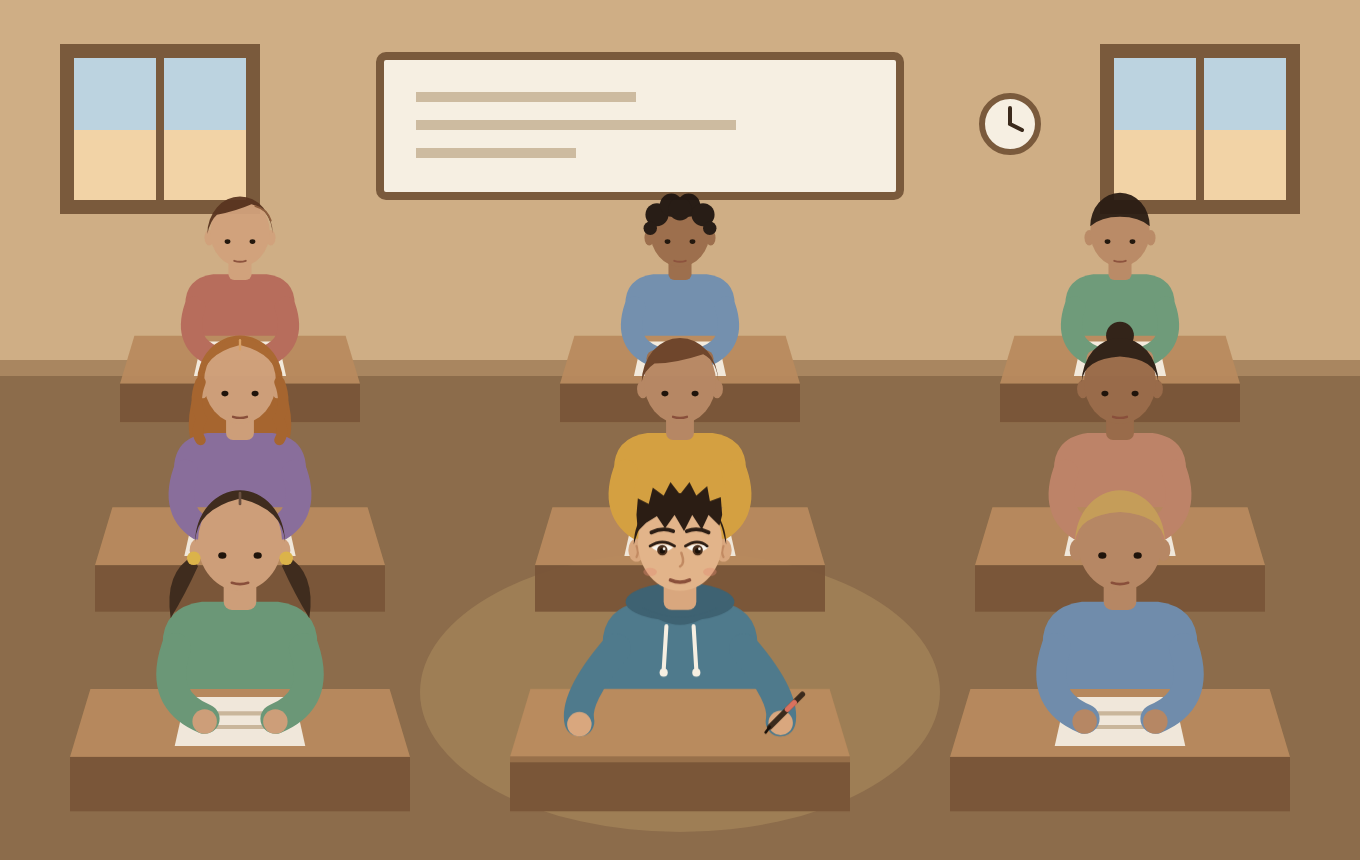
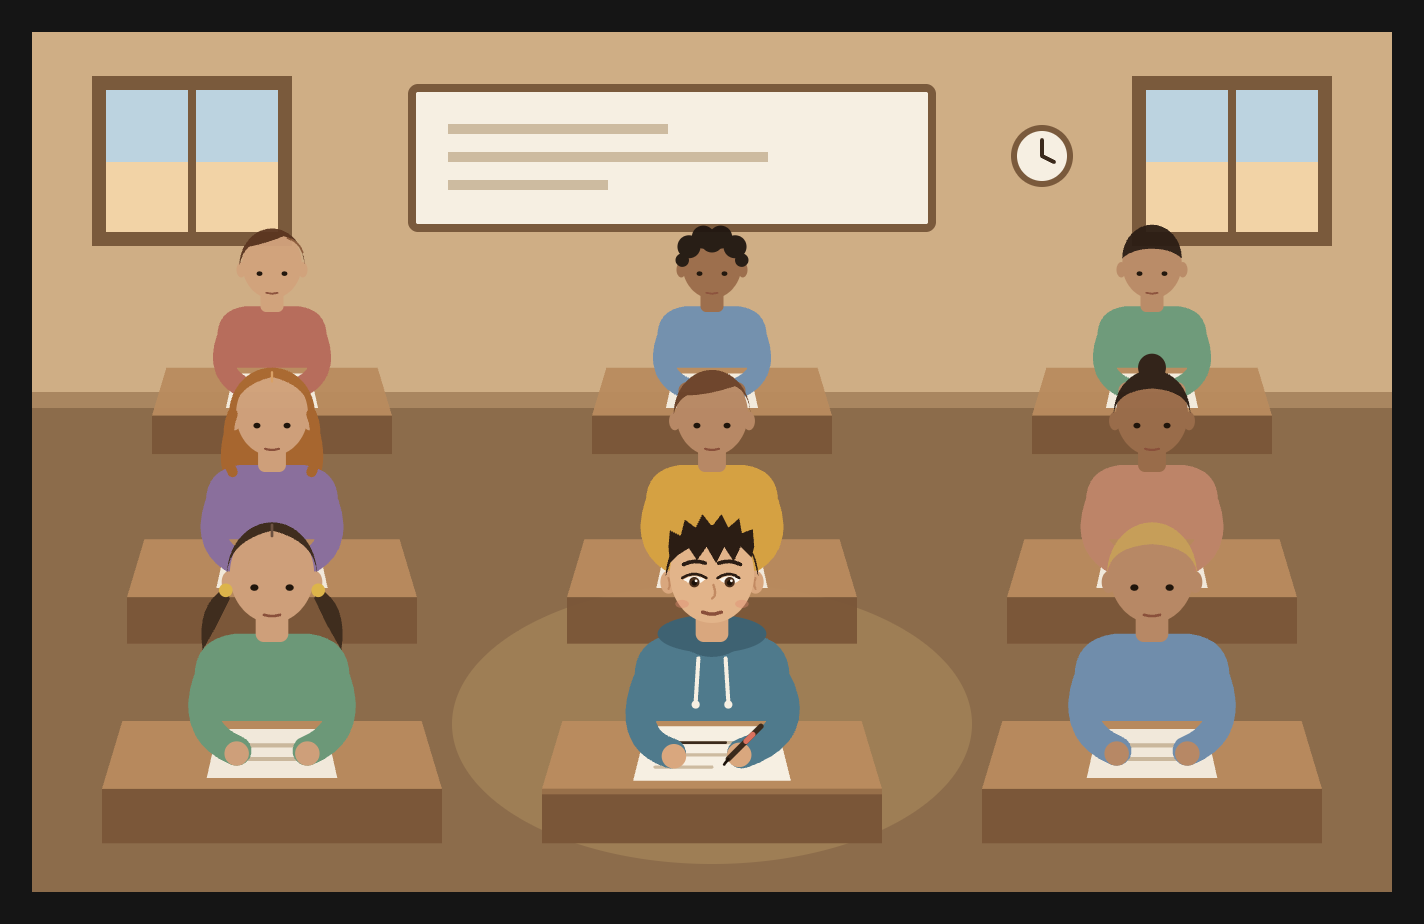
Add css for last screen

diff --git a/soundproject/css/style.css b/soundproject/css/style.css
@@ -232,6 +232,95 @@ body.computer-on .screen-video {
   background: #ffc473;
 }
 
+/* -- Page 3: Exam Day */
+
+/* Interactive exam area */
+.page3 #examHotspot {
+  position: absolute;
+  left: 42%;
+  top: 78%;
+  width: 20%;
+  height: 15%;
+  border: 0;
+  padding: 0;
+  background: transparent;
+  z-index: 5;
+  cursor: pointer;
+  opacity: 0;
+  pointer-events: none;
+}
+
+/* Glow around the paper and pen */
+.page3 #examHotspot::after {
+  content: '';
+  position: absolute;
+  inset: 0;
+  border-radius: 20px;
+  background: radial-gradient(
+    ellipse,
+    rgba(255, 210, 110, 0.4),
+    rgba(255, 180, 84, 0.12) 55%,
+    transparent 75%
+  );
+  box-shadow: 0 0 22px rgba(255, 180, 84, 0.5);
+  animation: examGlow 1.8s ease-in-out infinite;
+  pointer-events: none;
+}
+
+.page3 #examHotspot.is-active {
+  opacity: 1;
+  pointer-events: auto;
+}
+
+@keyframes examGlow {
+  0%, 100% {
+    opacity: 0.4;
+  }
+  50% {
+    opacity: 1;
+  }
+}
+
+/* Separate exam paper */
+.page3 #examPaper {
+  position: absolute;
+  left: 42%;
+  top: 81%;
+  width: 13%;
+  height: auto;
+  z-index: 6;
+  opacity: 0;
+  pointer-events: none;
+  user-select: none;
+  transition: opacity 0.4s ease;
+}
+
+/* Show the paper when the submission scene begins */
+.page3 #examPaper.is-visible {
+  opacity: 1;
+  pointer-events: auto;
+  cursor: grab;
+  touch-action: none;
+}
+
+/* Teacher standing beside the desk */
+.page3 #teacher {
+  position: absolute;
+  left: 63%;
+  top: 43%;
+  width: 15%;
+  height: auto;
+  z-index: 4;
+  opacity: 0;
+  pointer-events: none;
+  user-select: none;
+  transition: opacity 0.5s ease;
+}
+
+/* Show the teacher during submission */
+.page3 #teacher.is-visible {
+  opacity: 1;
+}
 
 /* -- Page links (top left) */
 
